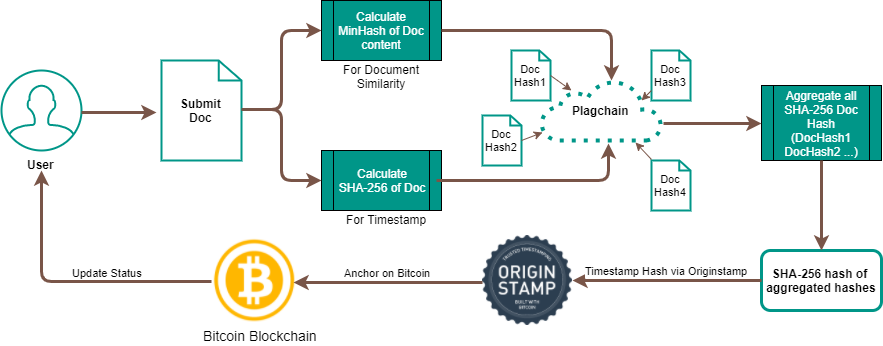
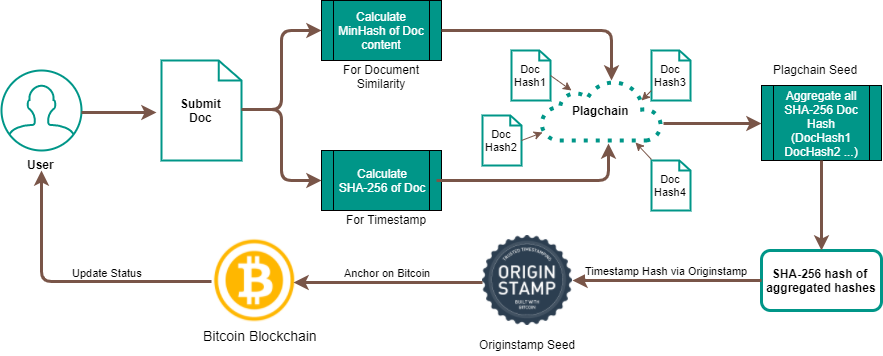
Added link to Originstamp for status check

diff --git a/src/main/webapp/app/components/showDocDetails/showDocDetails.html b/src/main/webapp/app/components/showDocDetails/showDocDetails.html
@@ -27,6 +27,14 @@
                                 <td>Confirmed on:</td>
                                 <td>{{publishedItem.confirmationTime | date:'dd-MM-yy HH:mm:ss'}}</td>
                             </tr>
+                            <tr>
+                                <td colspan="2">
+                                    <a ng-show="publishedItem.plagchainSeed.length > 4" class="btn btn-info" download="plagchainseed.txt"
+                                       ng-href="{{vm.url}}" ng-click="vm.downloadSeed(publishedItem.plagchainSeed)">Download Plagchain Seed</a>
+                                    <a ng-show="publishedItem.originstampSeed.length > 4" class="btn btn-info" download="originstampseed.txt"
+                                       ng-href="{{vm.url}}" ng-click="vm.downloadSeed(publishedItem.originstampSeed)">Download Originstamp Seed</a>
+                                </td>
+                            </tr>
                         </table>
                     </td>
                     <td align="center">
@@ -56,13 +64,14 @@
                                 <p>Timestamped on Bitcoin Blockchain with at least one block depth!</p>
                             </div>
                         </div>
-                        <a ng-show="publishedItem.plagchainSeed.length > 4" class="btn btn-info" download="plagchainseed.txt"
-                           ng-href="{{vm.url}}" ng-click="vm.downloadSeed(publishedItem.plagchainSeed)">Download Plagchain Seed</a>
-                        <a ng-show="publishedItem.originstampSeed.length > 4" class="btn btn-info" download="originstampseed.txt"
-                           ng-href="{{vm.url}}" ng-click="vm.downloadSeed(publishedItem.originstampSeed)">Download Originstamp Seed</a>
-                        <div ng-show="publishedItem.transactionHash.length > 4">
-                            <br>
-                            <a href="https://blockexplorer.com/tx/{{publishedItem.transactionHash}}" target="_blank">Verify on https://blockexplorer.com</a>
+                        <div class="btn-group" role="group">
+                            <a href="https://app.originstamp.org/s/{{publishedItem.plagchainSeedHash}}" target="_blank"
+                               ng-show="publishedItem.plagchainSeedHash.length > 4" class="btn btn-default">Status on Originstamp
+                                <span class="glyphicon glyphicon-new-window"></span></a>
+
+                            <a href="https://blockexplorer.com/tx/{{publishedItem.transactionHash}}" target="_blank"
+                               ng-show="publishedItem.transactionHash.length > 4" class="btn btn-default">Verify on Blockexplorer
+                                <span class="glyphicon glyphicon-new-window"></span></a>
                         </div>
                     </td>
                 </tr>
@@ -91,6 +100,14 @@
                             <tr ng-show="unpublishedItem.confirmationTime.length > 4">
                                 <td>Confirmed on:</td>
                                 <td>{{unpublishedItem.confirmationTime | date:'dd-MM-yy HH:mm:ss'}}</td>
+                            </tr>
+                            <tr>
+                                <td colspan="2">
+                                    <a ng-show="unpublishedItem.plagchainSeed.length > 4" class="btn btn-info" download="plagchainseed.txt"
+                                       ng-href="{{vm.url}}" ng-click="vm.downloadSeed(unpublishedItem.plagchainSeed)">Download Plagchain Seed</a>
+                                    <a ng-show="unpublishedItem.originstampSeed.length > 4" class="btn btn-info" download="originstampseed.txt"
+                                       ng-href="{{vm.url}}" ng-click="vm.downloadSeed(unpublishedItem.originstampSeed)">Download Originstamp Seed</a>
+                                </td>
                             </tr>
                         </table>
                     </td>
@@ -121,13 +138,14 @@
                                 <p>Timestamped on Bitcoin Blockchain with at least one block depth!</p>
                             </div>
                         </div>
-                        <a ng-show="unpublishedItem.plagchainSeed.length > 4" class="btn btn-info" download="plagchainseed.txt"
-                           ng-href="{{vm.url}}" ng-click="vm.downloadSeed(unpublishedItem.plagchainSeed)">Download Plagchain Seed</a>
-                        <a ng-show="unpublishedItem.originstampSeed.length > 4" class="btn btn-info" download="originstampseed.txt"
-                           ng-href="{{vm.url}}" ng-click="vm.downloadSeed(unpublishedItem.originstampSeed)">Download Originstamp Seed</a>
-                        <div ng-show="unpublishedItem.transactionHash.length > 4">
-                            <br>
-                            <a href="https://blockexplorer.com/tx/{{unpublishedItem.transactionHash}}">Verify on https://blockexplorer.com</a>
+                        <div class="btn-group" role="group">
+                            <a href="https://app.originstamp.org/s/{{unpublishedItem.plagchainSeedHash}}" target="_blank"
+                               ng-show="unpublishedItem.plagchainSeedHash.length > 4" class="btn btn-default">Status on Originstamp
+                                <span class="glyphicon glyphicon-new-window"></span></a>
+
+                            <a href="https://blockexplorer.com/tx/{{unpublishedItem.transactionHash}}" target="_blank"
+                               ng-show="unpublishedItem.transactionHash.length > 4" class="btn btn-default">Verify on Blockexplorer
+                                <span class="glyphicon glyphicon-new-window"></span></a>
                         </div>
                     </td>
                 </tr>

diff --git a/src/main/webapp/app/components/plagCheck/plagCheck.html b/src/main/webapp/app/components/plagCheck/plagCheck.html
@@ -70,7 +70,7 @@
                 </div>
             </div>
             <div ng-if="vm.results.listOfSimilarUnpublishedWork.length > 0">
-                <div uib-accordion-group class="panel-primary" heading="Similar Documents in Unpublished Work stream" is-open="false">
+                <div uib-accordion-group class="panel-primary" heading="Similar Documents in Unpublished Work stream" is-open="true">
                     <div class="panel panel-default">
                         <table class="table table-striped">
                             <thead>

diff --git a/src/main/java/com/plagui/modules/docdetails/DocDetailsService.java b/src/main/java/com/plagui/modules/docdetails/DocDetailsService.java
@@ -76,13 +76,12 @@ public class DocDetailsService {
             docItem.setFileName(utilService.transformDataFromHexToObject(streamItem.getData()).getFileName());
             docItem.setFileHash(streamItem.getKey());
             try {
+                //For each hash, get the information from plag-detection module
                 String responseStringFromPDModule = getSeedSubmissionDetailsForHash(streamItem.getKey());
-
+                //If the stream item was identified by Plag-detection module, populate it, else do nothing
                 if(responseStringFromPDModule != null && responseStringFromPDModule.length() > 0 &&
                     responseStringFromPDModule.contains("{")) {
-                    //For each hash, get the information from plag-detection module
                     JSONObject responseFromPDModule = new JSONObject(responseStringFromPDModule);
-                    //If the stream item was identified by Plag-detection module, populate it, else do nothing
                     if(!(responseFromPDModule.get("seedDetails") instanceof JSONObject)) {
                         docItem.setFetchedByPDModule(false);
                     } else {
@@ -94,6 +93,7 @@ public class DocDetailsService {
                         docItem.setConfirmation(seedDetails.getInt("originstampConfirmed"));
                         docItem.setConfirmationTime(seedDetails.getString("originstampBitcoinConfirmTime"));
                         docItem.setFetchedByPDModule(true);
+                        docItem.setPlagchainSeedHash(seedDetails.getString("plagchainSeedHash"));
                     }
                 } else {
                     response.setError(responseStringFromPDModule);

diff --git a/src/main/java/com/plagui/modules/docdetails/DocDetails.java b/src/main/java/com/plagui/modules/docdetails/DocDetails.java
@@ -21,6 +21,7 @@ public class DocDetails {
     private boolean fetchedByPDModule;
     private String bitcoinAddress;
     private String transactionHash;
+    private String plagchainSeedHash;
     private String confirmationTime;
     private String submissionTimeToPlagchain;
 
@@ -102,5 +103,13 @@ public class DocDetails {
 
     public void setTransactionHash(String transactionHash) {
         this.transactionHash = transactionHash;
+    }
+
+    public String getPlagchainSeedHash() {
+        return plagchainSeedHash;
+    }
+
+    public void setPlagchainSeedHash(String plagchainSeedHash) {
+        this.plagchainSeedHash = plagchainSeedHash;
     }
 }
